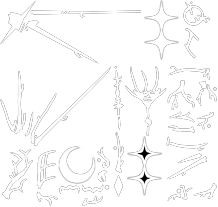
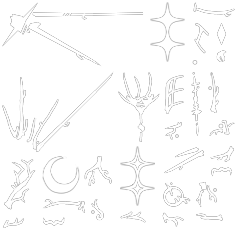
atlas padding

diff --git a/src/generators/ElkLanguageAtlas/Program.cs b/src/generators/ElkLanguageAtlas/Program.cs
@@ -70,6 +70,8 @@ internal static class Program
 
     private static void GenerateAtlas(string dir, string[] paths)
     {
+        const int padding = 2;
+
         var (symbols, rectangles) = GetSymbols();
 
         RectanglePacker.Pack(rectangles, out var bounds);
@@ -92,7 +94,7 @@ internal static class Program
             for (var i = 0; i < paths.Length; i++)
             {
                 images[i] = Image.Load<Rgba32>(paths[i]);
-                rects[i] = new PackingRectangle(0, 0, (uint)images[i].Width, (uint)images[i].Height, i);
+                rects[i] = new PackingRectangle(0, 0, (uint)images[i].Width + (padding * 2), (uint)images[i].Height + (padding * 2), i);
             }
 
             return (images, rects);
@@ -107,15 +109,15 @@ internal static class Program
                 var symbol = symbols[i];
                 var rectangle = rectangles.First(r => r.Id == i);
 
-                for (var x = 0; x < rectangle.Width; x++)
-                for (var y = 0; y < rectangle.Height; y++)
+                for (var x = 0; x < rectangle.Width - (padding * 2); x++)
+                for (var y = 0; y < rectangle.Height - (padding * 2); y++)
                 {
                     var pixel = symbol[x, y];
 
                     pixel = Premultiply(pixel);
 
-                    var atlasX = (int)rectangle.X + x;
-                    var atlasY = (int)rectangle.Y + y;
+                    var atlasX = (int)rectangle.X + padding + x;
+                    var atlasY = (int)rectangle.Y + padding + y;
 
                     outputImage[atlasX, atlasY] = pixel;
                 }
@@ -158,7 +160,7 @@ internal static class Program
 
                 var rectangle = rectangles.First(r => r.Id == i);
 
-                var source = new ElkSymbol.Rectangle((int)rectangle.X, (int)rectangle.Y, (int)rectangle.Width, (int)rectangle.Height);
+                var source = new ElkSymbol.Rectangle((int)rectangle.X + padding, (int)rectangle.Y + padding, (int)rectangle.Width - (padding * 2), (int)rectangle.Height - (padding * 2));
 
                 var realHeight = float.Parse(segments[3]);
 

diff --git a/src/Rosemary/Content/Elk/Language/ElkLanguage.cs b/src/Rosemary/Content/Elk/Language/ElkLanguage.cs
@@ -59,12 +59,6 @@ public static class ElkLanguage
         {
             var source = symbol.Source;
 
-            source.X += 1;
-            source.Y += 1;
-
-            source.Width -= 1;
-            source.Height -= 1;
-
             sb.Draw(
                 texture,
                 position + (symbol.Position * scale),